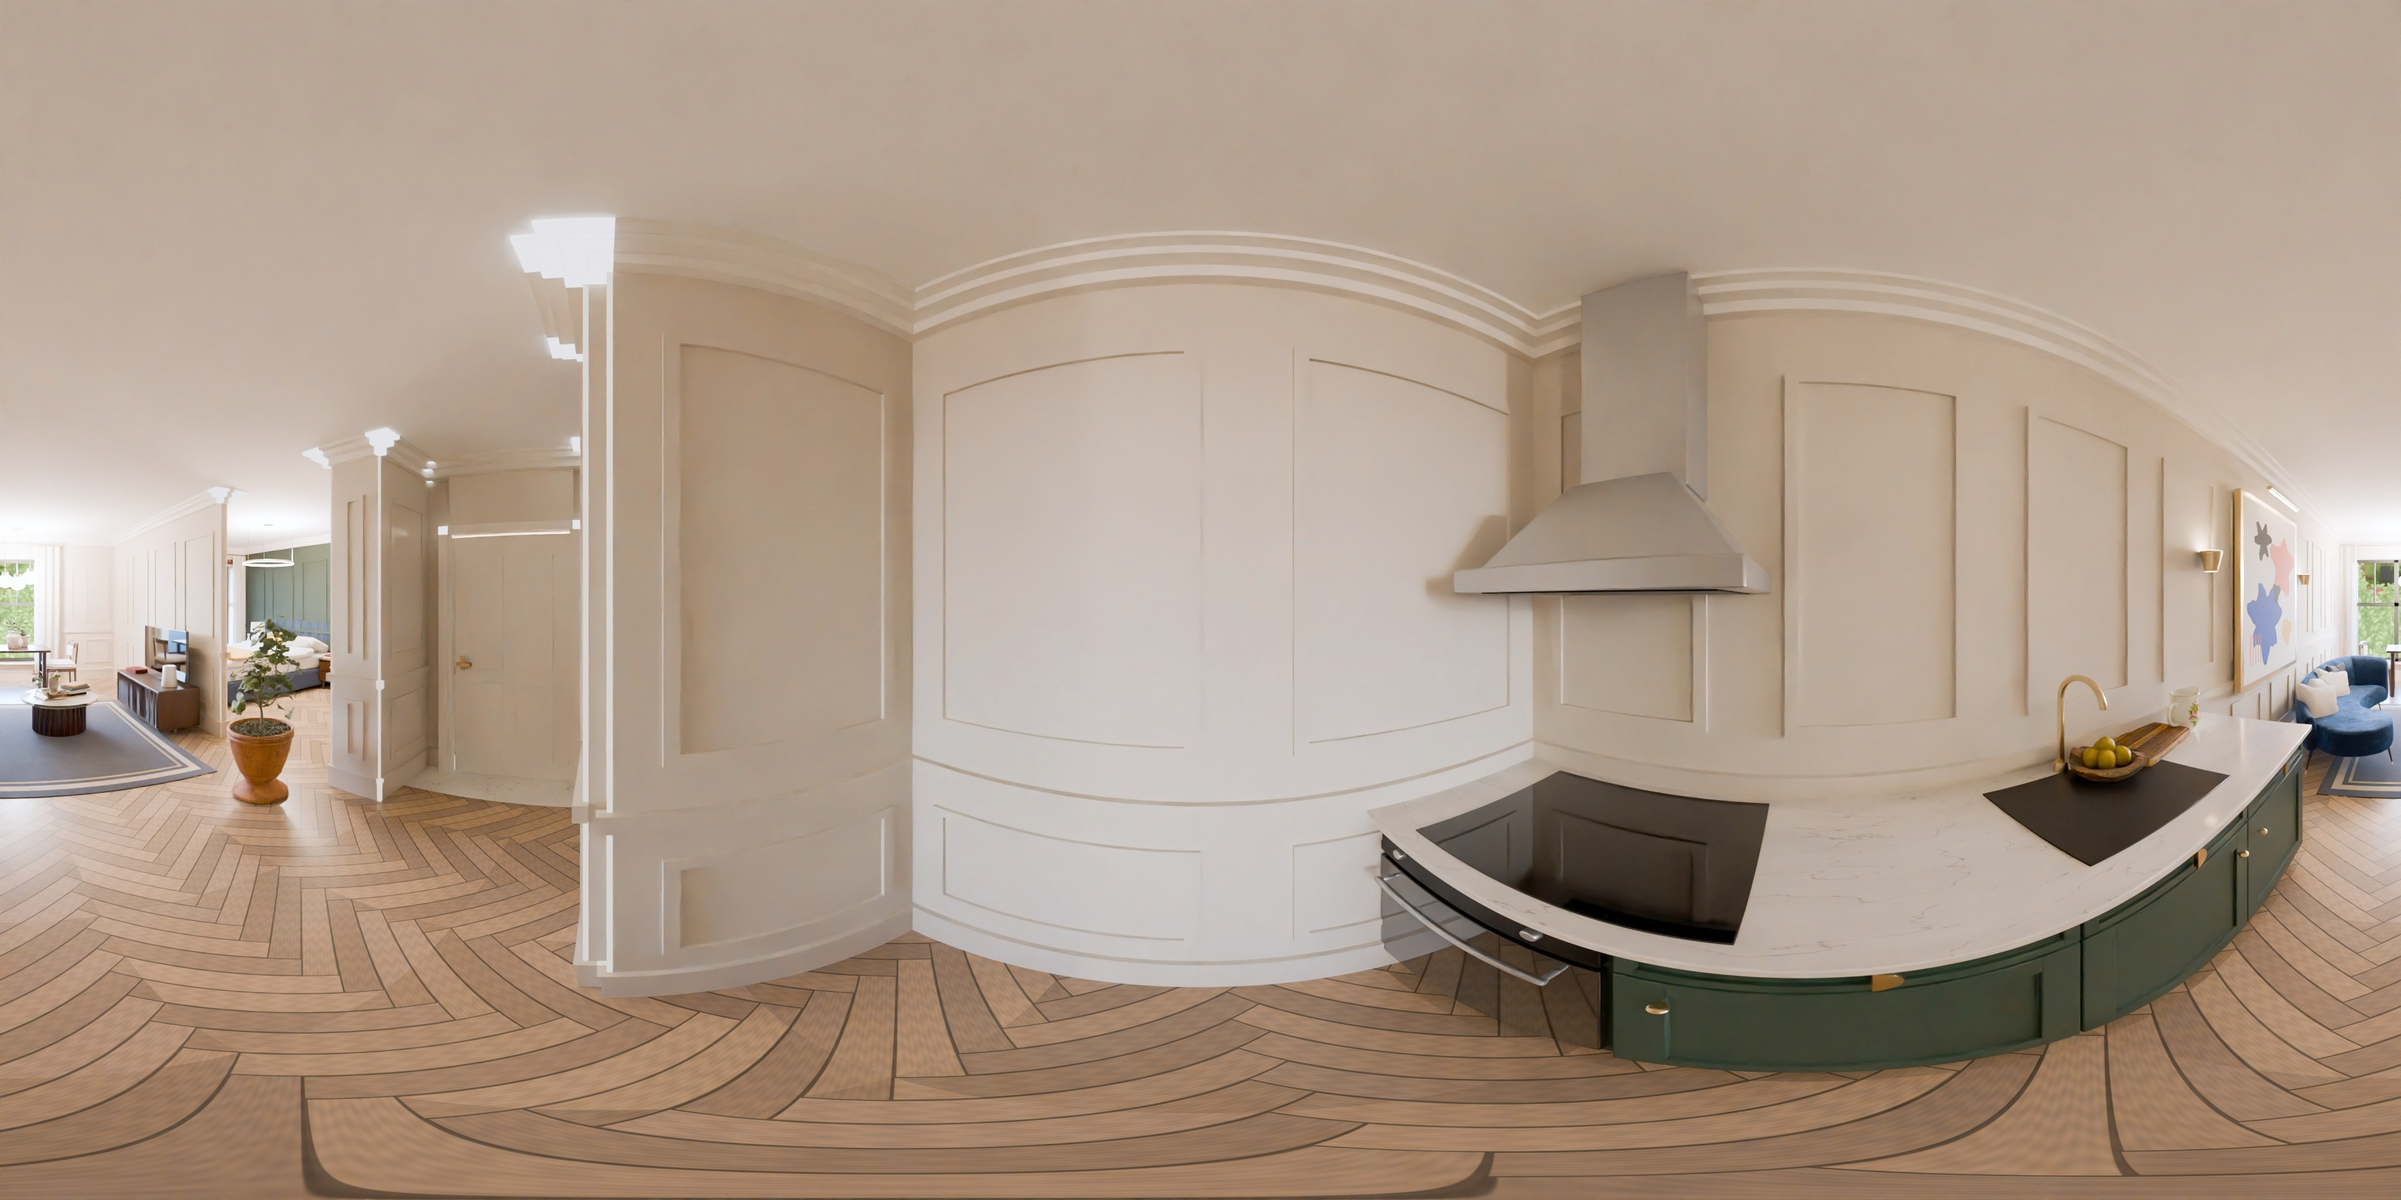
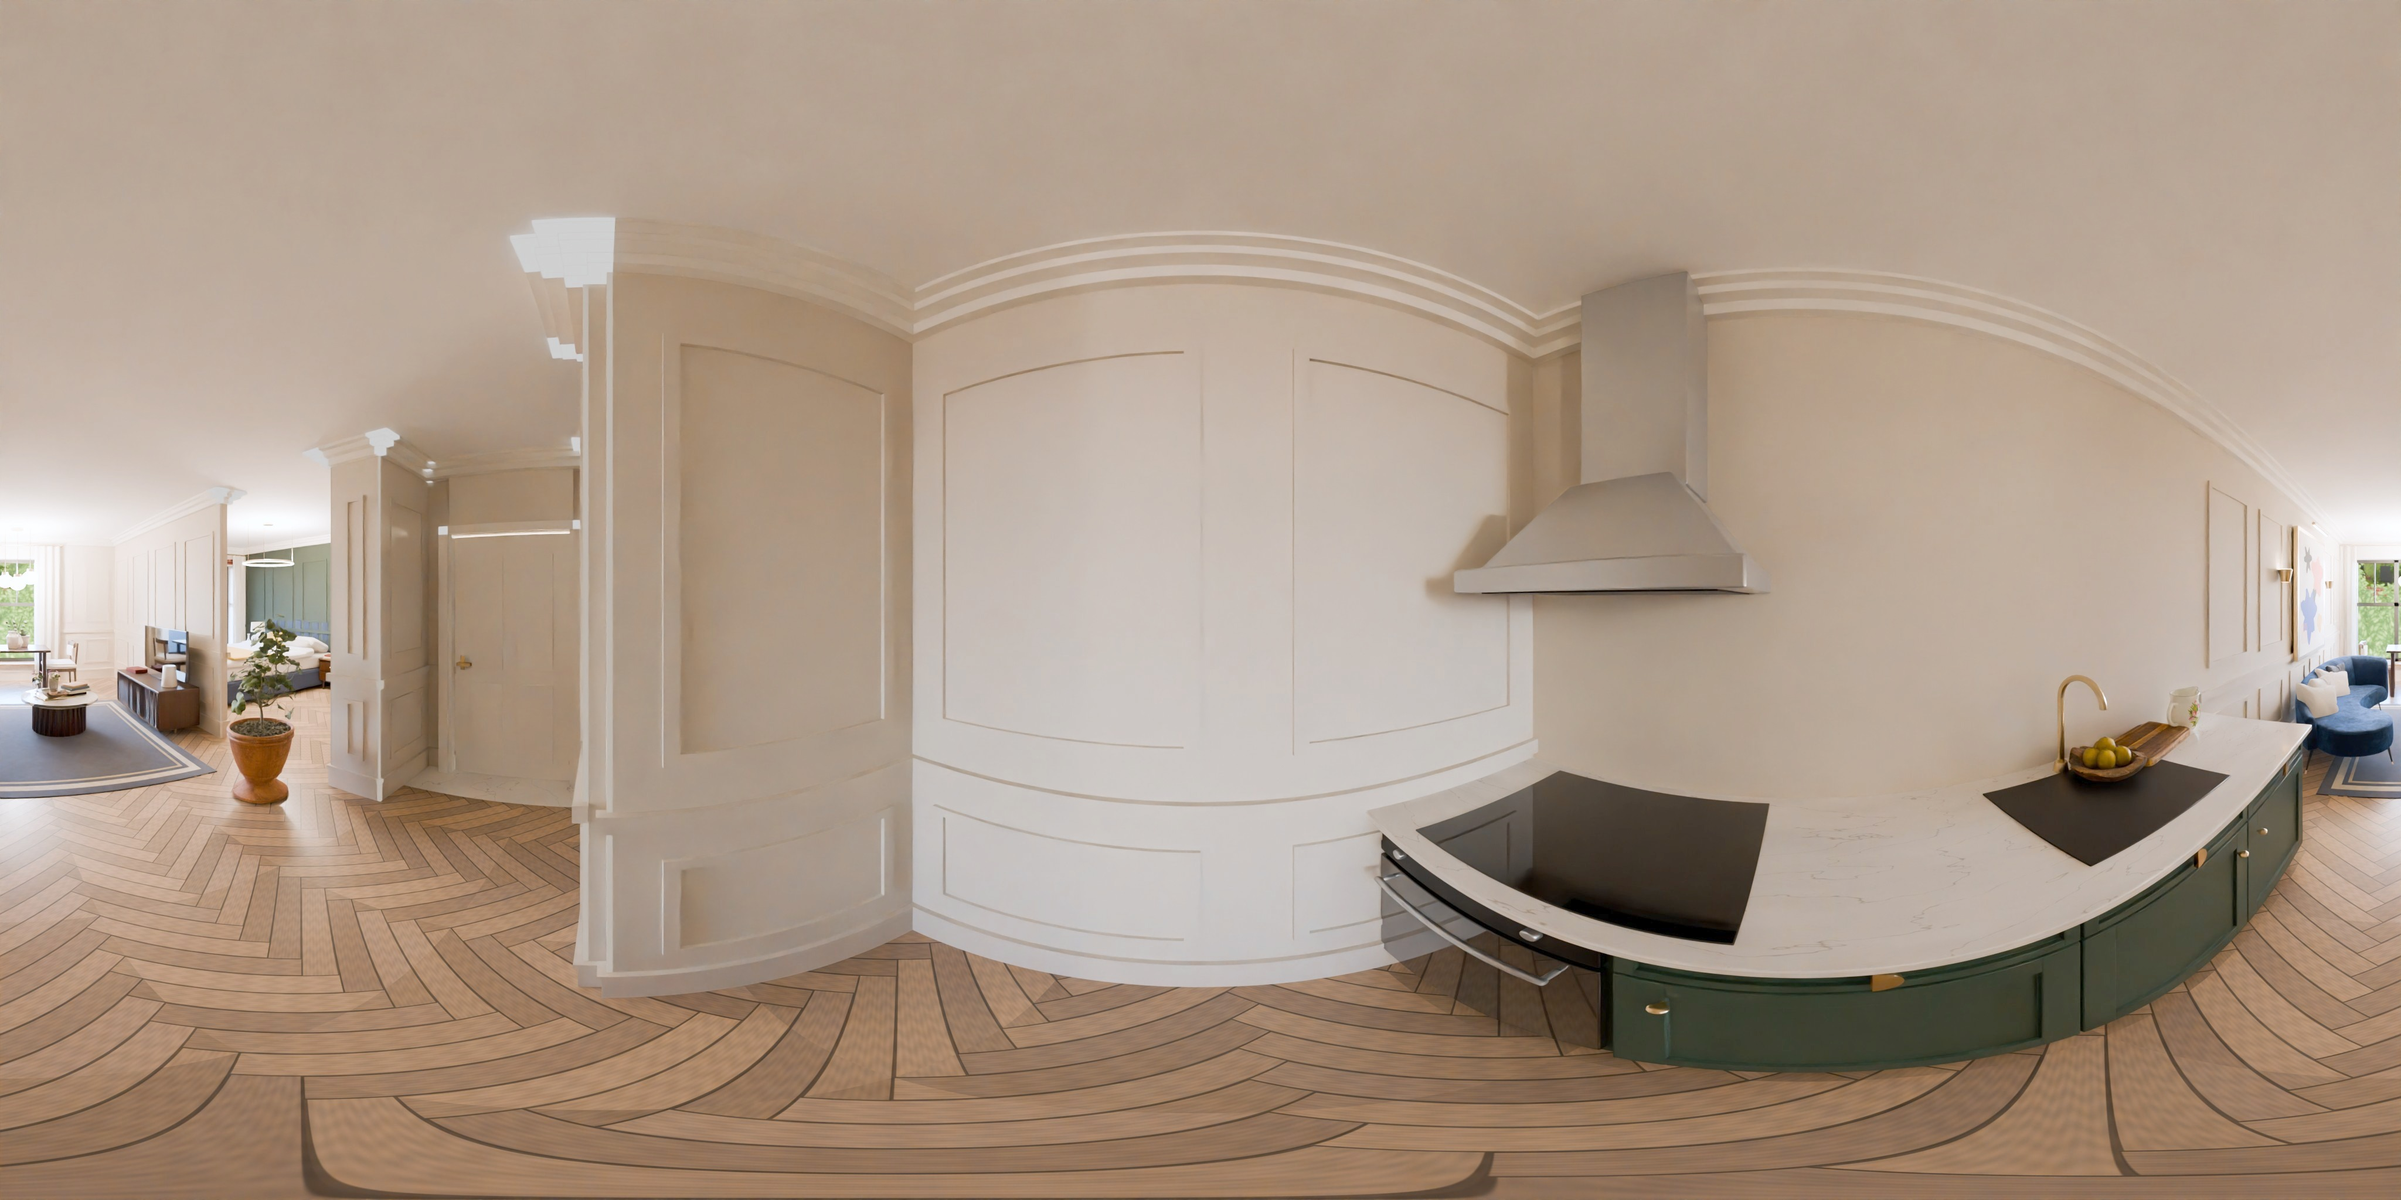
Photoreal 360 1_0: doors, extractor, no LED strip or blinds, brighter
Claude-Session: https://claude.ai/code/session_01Sctq4w295HK7FSoKn8ZRoL

diff --git a/3d/js/main.js b/3d/js/main.js
@@ -9,30 +9,30 @@ import { ShaderPass } from 'three/addons/postprocessing/ShaderPass.js';
 import { GTAOPass } from 'three/addons/postprocessing/GTAOPass.js';
 import { Sky } from 'three/addons/objects/Sky.js';
 import { mergeGeometries } from 'three/addons/utils/BufferGeometryUtils.js';
-import { UNITS, FLOORS, STATUS, SITE, INTERIORS, SUN, fmtGBP, sqm, FLOOR_H, IS_PH, START_AREA, IS_OSL, IS_UBL, PLANF } from './site.js?v=1794201463';
-import { buildUBL } from './ublbuild.js?v=1794201463';
-import { buildUBLFitout } from './ublfit.js?v=1794201463';
-import { UBL_LEVELS } from './ubl_data.js?v=1794201463';
-import { buildPrintHouse, buildSeatonSign, buildSeatonHouse } from './printhouse.js?v=1794201463';
-import { buildOSL } from './oslbuild.js?v=1794201463';
-import { buildOSLFitout } from './oslfit.js?v=1794201463';
-import { makeMaterials, CUT, setAniso, tex } from './materials.js?v=1794201463';
-import { buildCharterHouse, buildFloorPlates } from './building.js?v=1794201463';
-import { buildContext, buildCourtyard, groundY, buildBreweryFront, buildCars, buildBrickWalls, buildParkingLots } from './context.js?v=1794201463';
-import { setTerrain, setMid, buildWorld, obb, groundAt, townUniforms, setGroundHole, insetPoly } from './world.js?v=1794201463';
-import { buildFar, hazeUniforms } from './far.js?v=1794201463';
-import { buildRailway } from './railway.js?v=1794201463';
-import { buildExchange, EXCHANGE_IDS } from './exchange.js?v=1794201463';
+import { UNITS, FLOORS, STATUS, SITE, INTERIORS, SUN, fmtGBP, sqm, FLOOR_H, IS_PH, START_AREA, IS_OSL, IS_UBL, PLANF } from './site.js?v=1794203900';
+import { buildUBL } from './ublbuild.js?v=1794203900';
+import { buildUBLFitout } from './ublfit.js?v=1794203900';
+import { UBL_LEVELS } from './ubl_data.js?v=1794203900';
+import { buildPrintHouse, buildSeatonSign, buildSeatonHouse } from './printhouse.js?v=1794203900';
+import { buildOSL } from './oslbuild.js?v=1794203900';
+import { buildOSLFitout } from './oslfit.js?v=1794203900';
+import { makeMaterials, CUT, setAniso, tex } from './materials.js?v=1794203900';
+import { buildCharterHouse, buildFloorPlates } from './building.js?v=1794203900';
+import { buildContext, buildCourtyard, groundY, buildBreweryFront, buildCars, buildBrickWalls, buildParkingLots } from './context.js?v=1794203900';
+import { setTerrain, setMid, buildWorld, obb, groundAt, townUniforms, setGroundHole, insetPoly } from './world.js?v=1794203900';
+import { buildFar, hazeUniforms } from './far.js?v=1794203900';
+import { buildRailway } from './railway.js?v=1794203900';
+import { buildExchange, EXCHANGE_IDS } from './exchange.js?v=1794203900';
 const TOUR_WORLD = new URLSearchParams(location.search).get('world') === 'tour';   // the wide world for the Stockport tour renders
-import { Forest, windUniforms } from './trees.js?v=1794201463';
-import { Interior } from './interior.js?v=1794201463';
-import { buildFurniture, LAYOUTS, furnitureMaterials } from './furniture.js?v=1794201463';
-import { buildPHFitout } from './phfit.js?v=1794201463';
-import { walkMaterials, buildApartment, Walker } from './walk.js?v=1794201463';
-import { landmarkMaterials, buildStMarys, buildMarketHallOSM, buildStJoseph } from './landmarks.js?v=1794201463';
-import { createTour } from './tour.js?v=1794201463';
-import { buildCrowd } from './crowd.js?v=1794201463';
-import { pitch as chPitch, phPitch, PICKS as CH_PICKS, PH_PICKS, PROOF, RESERVE, CHARLIE, AREA_CARDS as ALL_CARDS, REGEN, AREA_HEADLINE, rentFor, oslPitch, OSL_PICKS, OSL_PROOF, ublPitch, UBL_PICKS, UBL_PROOF } from './sales.js?v=1794201463';
+import { Forest, windUniforms } from './trees.js?v=1794203900';
+import { Interior } from './interior.js?v=1794203900';
+import { buildFurniture, LAYOUTS, furnitureMaterials } from './furniture.js?v=1794203900';
+import { buildPHFitout } from './phfit.js?v=1794203900';
+import { walkMaterials, buildApartment, Walker } from './walk.js?v=1794203900';
+import { landmarkMaterials, buildStMarys, buildMarketHallOSM, buildStJoseph } from './landmarks.js?v=1794203900';
+import { createTour } from './tour.js?v=1794203900';
+import { buildCrowd } from './crowd.js?v=1794203900';
+import { pitch as chPitch, phPitch, PICKS as CH_PICKS, PH_PICKS, PROOF, RESERVE, CHARLIE, AREA_CARDS as ALL_CARDS, REGEN, AREA_HEADLINE, rentFor, oslPitch, OSL_PICKS, OSL_PROOF, ublPitch, UBL_PICKS, UBL_PROOF } from './sales.js?v=1794203900';
 const pitch = IS_UBL ? ublPitch : IS_OSL ? oslPitch : IS_PH ? phPitch : chPitch, PICKS = IS_UBL ? UBL_PICKS : IS_OSL ? OSL_PICKS : IS_PH ? PH_PICKS : CH_PICKS;
 const RK = IS_UBL ? 'ubl' : IS_OSL ? 'osl' : IS_PH;   // which site's rents
 const PROOFS = IS_UBL ? UBL_PROOF : IS_OSL ? OSL_PROOF : PROOF;
@@ -2058,8 +2058,8 @@ function buildSpots() {
   }
   // photoreal path-traced 360s of the rooms (rendered offline from this model; listed in assets/pano/index.json)
   for (const p of PANO_INDEX) {
-    if (p.spot) { const sp = SPOTS.find((q) => q.id === p.spot); if (sp) { sp.pano = `pano/${p.file}.jpg?v=1794201463`; sp.hd = !!p.hd; sp.glide = false; sp.note = sp.note + ' Photoreal 360°: drag to look round.'; } continue; }   // a street spot with its own photoreal 360
-    SPOTS.push({ id: 'pano-' + p.file, name: p.name, at: V3(...p.pos), look: V3(...p.look), pano: `pano/${p.file}.jpg?v=1794201463`, hd: !!p.hd, glide: false, type: p.type, plot: p.plot, room: p.room || p.name, note: p.note || 'Photoreal 360°. Drag to look round.' });
+    if (p.spot) { const sp = SPOTS.find((q) => q.id === p.spot); if (sp) { sp.pano = `pano/${p.file}.jpg?v=1794203900`; sp.hd = !!p.hd; sp.glide = false; sp.note = sp.note + ' Photoreal 360°: drag to look round.'; } continue; }   // a street spot with its own photoreal 360
+    SPOTS.push({ id: 'pano-' + p.file, name: p.name, at: V3(...p.pos), look: V3(...p.look), pano: `pano/${p.file}.jpg?v=1794203900`, hd: !!p.hd, glide: false, type: p.type, plot: p.plot, room: p.room || p.name, note: p.note || 'Photoreal 360°. Drag to look round.' });
   }
   const LINKS = {"wellington": [], "garden": ["garden2", "walk1", "walktop"], "garden2": ["garden", "walk1"], "walk1": ["garden", "walktop"], "walktop": ["garden", "walk1"], "stjoseph": ["fletcher"], "fletcher": ["stjoseph"], "roof": [], "corner": ["park", "arch", "harvey", "smg"], "park": ["corner", "arch"], "arch": ["corner", "park"], "harvey": ["smg", "corner", "brewery"], "brewery": ["harvey"], "smg": ["harvey", "corner"], "courtyard": ["walkway"], "walkway": ["courtyard"], "church": [], "market": []};   // the spots you can actually see from each spot (pins never show through walls)
   for (const sp of SPOTS) sp.links = LINKS[sp.id] || [];
@@ -2433,7 +2433,7 @@ function loop() {
   try {
     await build();
     placeLandmarks();
-    try { const j = await fetch(BASE + 'pano/index.json?v=1794201463').then(r => r.ok ? r.json() : []); PANO_INDEX = (j || []).filter(p => !!p.type === true && (IS_UBL ? p.site === 'ubl' : IS_OSL ? p.site === 'osl' : IS_PH ? p.site === 'ph' : p.site !== 'ph' && p.site !== 'osl' && p.site !== 'ubl')); } catch (e) { PANO_INDEX = []; }
+    try { const j = await fetch(BASE + 'pano/index.json?v=1794203900').then(r => r.ok ? r.json() : []); PANO_INDEX = (j || []).filter(p => !!p.type === true && (IS_UBL ? p.site === 'ubl' : IS_OSL ? p.site === 'osl' : IS_PH ? p.site === 'ph' : p.site !== 'ph' && p.site !== 'osl' && p.site !== 'ubl')); } catch (e) { PANO_INDEX = []; }
     buildSpots();
   } catch (e) { console.error(e); lmsg.textContent = 'Something went wrong loading the model. Please refresh.'; return; }
   applyTOD('day');

diff --git a/3d/js/site.js b/3d/js/site.js
@@ -1,9 +1,9 @@
 // Which development this page sells: Charter House (default) or The Print House (window.__SITE = 'ph' or ?site=ph).
 // Everything the selector shows (units, floors, prices, copy) comes through here, so one engine serves both.
-import * as CHD from './data.js?v=1794201463';
-import { PH_SITE, PH_FLOORS, PH_UNITS, PH_FH } from './ph_data.js?v=1794201463';
-import { OSL_SITE, OSL_FLOORS, OSL_UNITS, OSL_FH } from './osl_data.js?v=1794201463';
-import { UBL_SITE, UBL_FLOORS, UBL_UNITS, UBL_FH } from './ubl_data.js?v=1794201463';
+import * as CHD from './data.js?v=1794203900';
+import { PH_SITE, PH_FLOORS, PH_UNITS, PH_FH } from './ph_data.js?v=1794203900';
+import { OSL_SITE, OSL_FLOORS, OSL_UNITS, OSL_FH } from './osl_data.js?v=1794203900';
+import { UBL_SITE, UBL_FLOORS, UBL_UNITS, UBL_FH } from './ubl_data.js?v=1794203900';
 
 export const IS_PH = typeof window !== 'undefined' && (window.__SITE === 'ph' || /[?&]site=ph\b/.test(location.search));
 // Oldham Street Lofts, Hyde (window.__SITE = 'osl' or ?site=osl): a different town, built in the same plan-frame way as The Print House

diff --git a/3d/js/phfit.js b/3d/js/phfit.js
@@ -4,10 +4,10 @@
 // Built in the Print House model's plan frame (x = u, z = -v), so the group sits inside the model's transform.
 import * as THREE from 'three';
 import { mergeGeometries } from 'three/addons/utils/BufferGeometryUtils.js';
-import { CUT } from './materials.js?v=1794201463';
-import { plankTexture, weaveTexture, tileTexture, finishUV } from './finishes.js?v=1794201463';
-import { Kit, sofa, armchair, bed, bedside, wardrobe, kitchen, chair, diningTable, coffeeTable, rug, pot } from './furniture.js?v=1794201463';
-import { phTopY } from './ph_data.js?v=1794201463';
+import { CUT } from './materials.js?v=1794203900';
+import { plankTexture, weaveTexture, tileTexture, finishUV } from './finishes.js?v=1794203900';
+import { Kit, sofa, armchair, bed, bedside, wardrobe, kitchen, chair, diningTable, coffeeTable, rug, pot } from './furniture.js?v=1794203900';
+import { phTopY } from './ph_data.js?v=1794203900';
 
 // which side of each main-block slot its kitchen runs along (kitchens pair back to back across the party walls)
 const KSIDE = { 2: 0, 3: 1, 4: 0, 5: 1, 6: 0, 7: 1 };

diff --git a/3d/js/oslfit.js b/3d/js/oslfit.js
@@ -3,10 +3,10 @@
 // Built in the sheet frame (local x = s along Syddall Street, z = t back from the frontage), inside the model's transform.
 import * as THREE from 'three';
 import { mergeGeometries } from 'three/addons/utils/BufferGeometryUtils.js';
-import { CUT } from './materials.js?v=1794201463';
-import { plankTexture, weaveTexture, tileTexture, finishUV } from './finishes.js?v=1794201463';
-import { Kit, sofa, armchair, bed, bedside, kitchen, chair, diningTable, coffeeTable, rug } from './furniture.js?v=1794201463';
-import { OSL_KEAST } from './osl_data.js?v=1794201463';
+import { CUT } from './materials.js?v=1794203900';
+import { plankTexture, weaveTexture, tileTexture, finishUV } from './finishes.js?v=1794203900';
+import { Kit, sofa, armchair, bed, bedside, kitchen, chair, diningTable, coffeeTable, rug } from './furniture.js?v=1794203900';
+import { OSL_KEAST } from './osl_data.js?v=1794203900';
 
 let MATS = null;
 function mats() {

diff --git a/3d/js/ublfit.js b/3d/js/ublfit.js
@@ -7,10 +7,10 @@
 import * as THREE from 'three';
 import { mergeGeometries } from 'three/addons/utils/BufferGeometryUtils.js';
 import { RoundedBoxGeometry } from 'three/addons/geometries/RoundedBoxGeometry.js';
-import { CUT } from './materials.js?v=1794201463';
-import { Kit, bed, bedside, chair, rug, coffeeTable } from './furniture.js?v=1794201463';
-import { UBL_LEVELS } from './ubl_data.js?v=1794201463';
-import { plankTexture, weaveTexture, tileTexture, stoneTexture, rugTexture, finishUV } from './finishes.js?v=1794201463';
+import { CUT } from './materials.js?v=1794203900';
+import { Kit, bed, bedside, chair, rug, coffeeTable } from './furniture.js?v=1794203900';
+import { UBL_LEVELS } from './ubl_data.js?v=1794203900';
+import { plankTexture, weaveTexture, tileTexture, stoneTexture, rugTexture, finishUV } from './finishes.js?v=1794203900';
 
 let MATS = null;
 function mats() {

diff --git a/3d/js/ublbuild.js b/3d/js/ublbuild.js
@@ -9,10 +9,10 @@
 // Heights in metres above the converted building's lower ground floor (+52.00 m AOD).
 import * as THREE from 'three';
 import { mergeGeometries } from 'three/addons/utils/BufferGeometryUtils.js';
-import { UBL_SITE, UBL_UNITS, UBL_LEVELS, UBL_EXT_LEVELS } from './ubl_data.js?v=1794201463';
-import { roomBox } from './building.js?v=1794201463';
-import { roomMaterial } from './materials.js?v=1794201463';
-import { insetPoly } from './world.js?v=1794201463';
+import { UBL_SITE, UBL_UNITS, UBL_LEVELS, UBL_EXT_LEVELS } from './ubl_data.js?v=1794203900';
+import { roomBox } from './building.js?v=1794203900';
+import { roomMaterial } from './materials.js?v=1794203900';
+import { insetPoly } from './world.js?v=1794203900';
 
 const NF = 5;
 const EAVES = 15.4, RIDGE = 18.4;                     // +67.40 / +70.40

diff --git a/3d/js/oslbuild.js b/3d/js/oslbuild.js
@@ -7,10 +7,10 @@
 // which is the engine's plan frame with u = s, v = -t.
 import * as THREE from 'three';
 import { mergeGeometries } from 'three/addons/utils/BufferGeometryUtils.js';
-import { OSL_SITE, OSL_FH, OSL_UNITS, OSL_KEAST } from './osl_data.js?v=1794201463';
-import { roomBox } from './building.js?v=1794201463';
-import { roomMaterial } from './materials.js?v=1794201463';
-import { insetPoly, polyArea } from './world.js?v=1794201463';
+import { OSL_SITE, OSL_FH, OSL_UNITS, OSL_KEAST } from './osl_data.js?v=1794203900';
+import { roomBox } from './building.js?v=1794203900';
+import { roomMaterial } from './materials.js?v=1794203900';
+import { insetPoly, polyArea } from './world.js?v=1794203900';
 
 const FH = OSL_FH, NF = 3;
 const HW = 4.137, HD = 11.17;                   // house plot width and depth

diff --git a/3d/js/printhouse.js b/3d/js/printhouse.js
@@ -5,9 +5,9 @@
 // local z = -v (v runs east into the garden), so the plan coordinates read straight across.
 import * as THREE from 'three';
 import { mergeGeometries } from 'three/addons/utils/BufferGeometryUtils.js';
-import { PH_SITE, PH_FH, PH_UNITS, PH_ROOF, phTopY } from './ph_data.js?v=1794201463';
-import { roomBox } from './building.js?v=1794201463';
-import { roomMaterial } from './materials.js?v=1794201463';
+import { PH_SITE, PH_FH, PH_UNITS, PH_ROOF, phTopY } from './ph_data.js?v=1794203900';
+import { roomBox } from './building.js?v=1794203900';
+import { roomMaterial } from './materials.js?v=1794203900';
 
 const FH = PH_FH, NF = 5;
 const MAIN = [0, 0, 27.2, 10.2];      // u0 v0 u1 v1

diff --git a/3d/js/context.js b/3d/js/context.js
@@ -4,8 +4,8 @@
 import * as THREE from 'three';
 import { mergeGeometries, mergeVertices } from 'three/addons/utils/BufferGeometryUtils.js';
 import { RoundedBoxGeometry } from 'three/addons/geometries/RoundedBoxGeometry.js';
-import { boxGeom, boxUV } from './building.js?v=1794201463';
-import { groundAt, letteringTexture } from './world.js?v=1794201463';
+import { boxGeom, boxUV } from './building.js?v=1794203900';
+import { groundAt, letteringTexture } from './world.js?v=1794203900';
 
 // street level comes from the terrain model (world.js): estimated levels relative to Charter House's ground floor
 export function groundY(x, z) { return groundAt(x, z); }

diff --git a/3d/js/far.js b/3d/js/far.js
@@ -3,7 +3,7 @@
 // the Manchester skyline, St George's spire, the 1840 viaduct and the oval Interchange with its rooftop park.
 import * as THREE from 'three';
 import { mergeGeometries, mergeVertices } from 'three/addons/utils/BufferGeometryUtils.js';
-import { midH, groundAt } from './world.js?v=1794201463';
+import { midH, groundAt } from './world.js?v=1794203900';
 
 // aerial perspective shared by every far mesh (they skip the scene fog): haze rises with distance like real air
 export const hazeUniforms = { uHaze: { value: new THREE.Color('#b9c9dc') }, uHazeL: { value: 14000 }, uSunTint: { value: new THREE.Color('#ffffff') } };

diff --git a/3d/js/furniture.js b/3d/js/furniture.js
@@ -5,9 +5,9 @@
 import * as THREE from 'three';
 import { RoundedBoxGeometry } from 'three/addons/geometries/RoundedBoxGeometry.js';
 import { mergeGeometries } from 'three/addons/utils/BufferGeometryUtils.js';
-import { CUT, tex } from './materials.js?v=1794201463';
-import { FLOOR_H } from './data.js?v=1794201463';
-import { Forest } from './trees.js?v=1794201463';
+import { CUT, tex } from './materials.js?v=1794203900';
+import { FLOOR_H } from './data.js?v=1794203900';
+import { Forest } from './trees.js?v=1794203900';
 
 const FH = FLOOR_H;
 const DIR = { '+x': [1, 0], '-x': [-1, 0], '+z': [0, 1], '-z': [0, -1] };

diff --git a/3d/js/building.js b/3d/js/building.js
@@ -1,8 +1,8 @@
 // Charter House: procedural model built from the Ollier Smurthwaite plans and elevations.
 import * as THREE from 'three';
 import { mergeGeometries } from 'three/addons/utils/BufferGeometryUtils.js';
-import { UNITS, FLOOR_H } from './data.js?v=1794201463';
-import { roomMaterial, CUT_PLANES } from './materials.js?v=1794201463';
+import { UNITS, FLOOR_H } from './data.js?v=1794203900';
+import { roomMaterial, CUT_PLANES } from './materials.js?v=1794203900';
 
 const FH = FLOOR_H;
 const T = 0.4;              // external wall thickness
